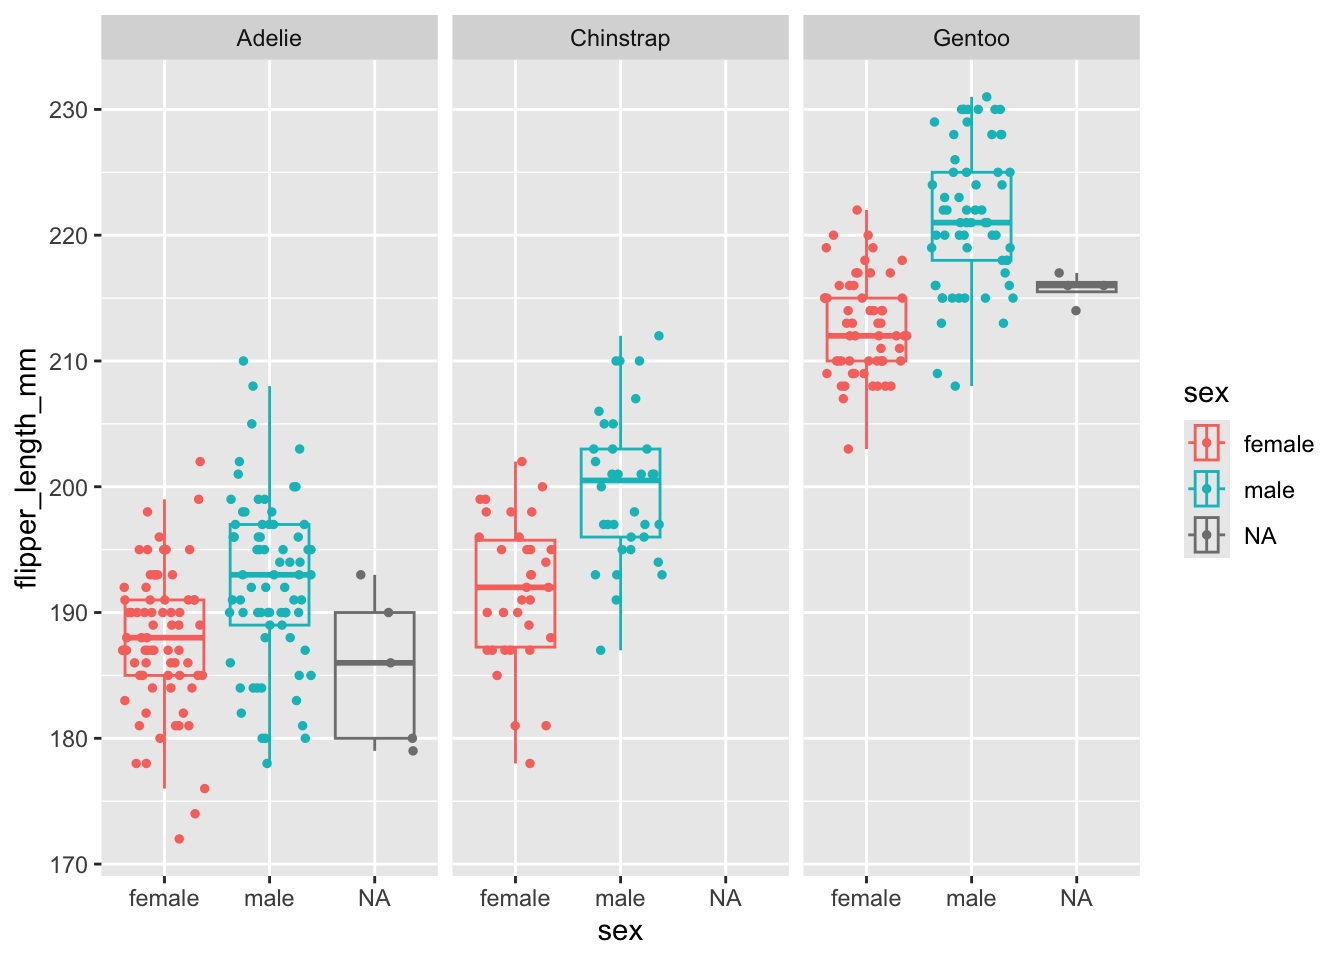
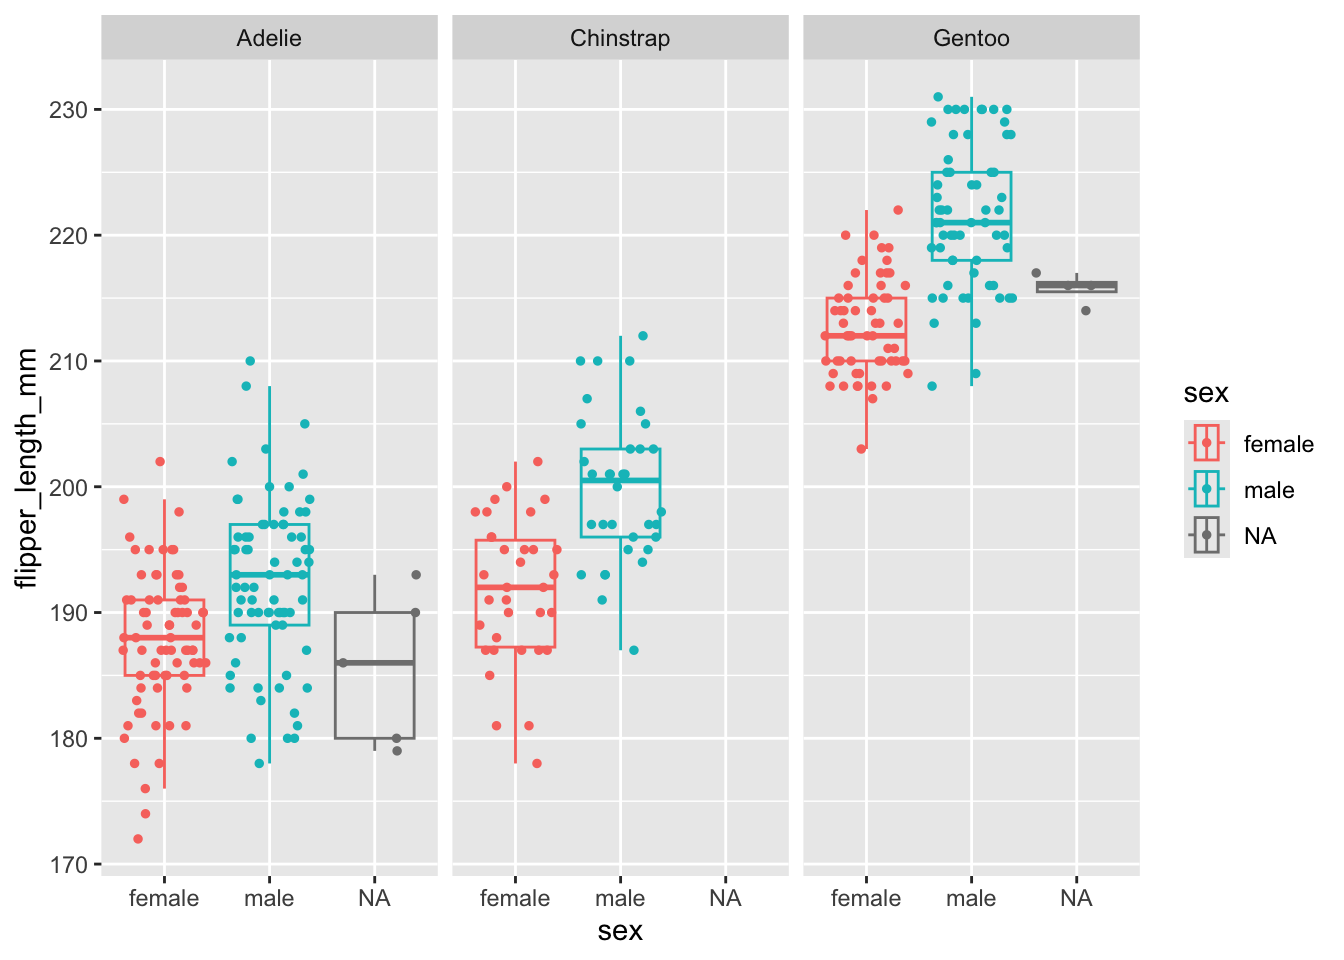
updating website

diff --git a/docs/index.html b/docs/index.html
@@ -7,7 +7,7 @@
 <meta name="viewport" content="width=device-width, initial-scale=1.0, user-scalable=yes">
 
 
-<title>Lab-3-penguins – This is a website</title>
+<title>Welcome to my website! – zhangfan lyu</title>
 <style>
 /* Default styles provided by pandoc.
 ** See https://pandoc.org/MANUAL.html#variables-for-html for config info.
@@ -86,7 +86,7 @@ ul.task-list li input[type="checkbox"] {
       <div class="navbar-container container-fluid">
       <div class="navbar-brand-container mx-auto">
     <a class="navbar-brand" href="./index.html">
-    <span class="navbar-title">This is a website</span>
+    <span class="navbar-title">zhangfan lyu</span>
     </a>
   </div>
             <div id="quarto-search" class="" title="Search"></div>
@@ -97,15 +97,19 @@ ul.task-list li input[type="checkbox"] {
             <ul class="navbar-nav navbar-nav-scroll me-auto">
   <li class="nav-item">
     <a class="nav-link active" href="./index.html" aria-current="page"> 
-<span class="menu-text">Home</span></a>
+<span class="menu-text">home</span></a>
   </li>  
   <li class="nav-item">
     <a class="nav-link" href="./about.html"> 
-<span class="menu-text">About</span></a>
+<span class="menu-text">about me</span></a>
   </li>  
   <li class="nav-item">
-    <a class="nav-link" href="./Academic Experience.html"> 
-<span class="menu-text">Academic Experience</span></a>
+    <a class="nav-link" href="./education.html"> 
+<span class="menu-text">education</span></a>
+  </li>  
+  <li class="nav-item">
+    <a class="nav-link" href="./projects.html"> 
+<span class="menu-text">projects</span></a>
   </li>  
 </ul>
           </div> <!-- /navcollapse -->
@@ -126,7 +130,7 @@ ul.task-list li input[type="checkbox"] {
 
 <header id="title-block-header" class="quarto-title-block default">
 <div class="quarto-title">
-<h1 class="title">Lab-3-penguins</h1>
+<h1 class="title">Welcome to my website!</h1>
 </div>
 
 

diff --git a/docs/about.html b/docs/about.html
@@ -7,7 +7,7 @@
 <meta name="viewport" content="width=device-width, initial-scale=1.0, user-scalable=yes">
 
 
-<title>About – This is a website</title>
+<title>about me – zhangfan lyu</title>
 <style>
 /* Default styles provided by pandoc.
 ** See https://pandoc.org/MANUAL.html#variables-for-html for config info.
@@ -86,7 +86,7 @@ ul.task-list li input[type="checkbox"] {
       <div class="navbar-container container-fluid">
       <div class="navbar-brand-container mx-auto">
     <a class="navbar-brand" href="./index.html">
-    <span class="navbar-title">This is a website</span>
+    <span class="navbar-title">zhangfan lyu</span>
     </a>
   </div>
             <div id="quarto-search" class="" title="Search"></div>
@@ -97,15 +97,19 @@ ul.task-list li input[type="checkbox"] {
             <ul class="navbar-nav navbar-nav-scroll me-auto">
   <li class="nav-item">
     <a class="nav-link" href="./index.html"> 
-<span class="menu-text">Home</span></a>
+<span class="menu-text">home</span></a>
   </li>  
   <li class="nav-item">
     <a class="nav-link active" href="./about.html" aria-current="page"> 
-<span class="menu-text">About</span></a>
+<span class="menu-text">about me</span></a>
   </li>  
   <li class="nav-item">
-    <a class="nav-link" href="./Academic Experience.html"> 
-<span class="menu-text">Academic Experience</span></a>
+    <a class="nav-link" href="./education.html"> 
+<span class="menu-text">education</span></a>
+  </li>  
+  <li class="nav-item">
+    <a class="nav-link" href="./projects.html"> 
+<span class="menu-text">projects</span></a>
   </li>  
 </ul>
           </div> <!-- /navcollapse -->
@@ -126,7 +130,7 @@ ul.task-list li input[type="checkbox"] {
 
 <header id="title-block-header" class="quarto-title-block default">
 <div class="quarto-title">
-<h1 class="title">About</h1>
+<h1 class="title">about me</h1>
 </div>
 
 

diff --git a/docs/Lab 3 notes.html b/docs/Lab 3 notes.html
@@ -7,7 +7,7 @@
 <meta name="viewport" content="width=device-width, initial-scale=1.0, user-scalable=yes">
 
 
-<title>Palmer’s Penguins – This is a website</title>
+<title>Palmer’s Penguins – zhangfan lyu</title>
 <style>
 /* Default styles provided by pandoc.
 ** See https://pandoc.org/MANUAL.html#variables-for-html for config info.
@@ -121,7 +121,7 @@ pre > code.sourceCode > span > a:first-child::before { text-decoration: underlin
       <div class="navbar-container container-fluid">
       <div class="navbar-brand-container mx-auto">
     <a class="navbar-brand" href="./index.html">
-    <span class="navbar-title">This is a website</span>
+    <span class="navbar-title">zhangfan lyu</span>
     </a>
   </div>
             <div id="quarto-search" class="" title="Search"></div>
@@ -132,15 +132,19 @@ pre > code.sourceCode > span > a:first-child::before { text-decoration: underlin
             <ul class="navbar-nav navbar-nav-scroll me-auto">
   <li class="nav-item">
     <a class="nav-link" href="./index.html"> 
-<span class="menu-text">Home</span></a>
+<span class="menu-text">home</span></a>
   </li>  
   <li class="nav-item">
     <a class="nav-link" href="./about.html"> 
-<span class="menu-text">About</span></a>
+<span class="menu-text">about me</span></a>
   </li>  
   <li class="nav-item">
-    <a class="nav-link" href="./Academic Experience.html"> 
-<span class="menu-text">Academic Experience</span></a>
+    <a class="nav-link" href="./education.html"> 
+<span class="menu-text">education</span></a>
+  </li>  
+  <li class="nav-item">
+    <a class="nav-link" href="./projects.html"> 
+<span class="menu-text">projects</span></a>
   </li>  
 </ul>
           </div> <!-- /navcollapse -->

diff --git a/docs/projects.html b/docs/projects.html
@@ -7,7 +7,7 @@
 <meta name="viewport" content="width=device-width, initial-scale=1.0, user-scalable=yes">
 
 
-<title>education – zhangfan lyu</title>
+<title>projects – zhangfan lyu</title>
 <style>
 /* Default styles provided by pandoc.
 ** See https://pandoc.org/MANUAL.html#variables-for-html for config info.
@@ -108,7 +108,7 @@ ul.task-list li input[type="checkbox"] {
 <span class="menu-text">education</span></a>
   </li>  
   <li class="nav-item">
-    <a class="nav-link" href="./projects.html"> 
+    <a class="nav-link active" href="./projects.html" aria-current="page"> 
 <span class="menu-text">projects</span></a>
   </li>  
 </ul>
@@ -130,7 +130,7 @@ ul.task-list li input[type="checkbox"] {
 
 <header id="title-block-header" class="quarto-title-block default">
 <div class="quarto-title">
-<h1 class="title">education</h1>
+<h1 class="title">projects</h1>
 </div>
 
 
@@ -147,8 +147,6 @@ ul.task-list li input[type="checkbox"] {
 </header>
 
 
-<p><img src="https://thumb.wikimedia.org/wikipedia/commons/thumb/7/76/Mcgill_university_coa.png/250px-Mcgill_university_coa.png?utm_source=en.wikipedia.org&amp;utm_campaign=parser&amp;utm_content=thumbnail" class="img-fluid"></p>
-<p><img src="https://thumb.wikimedia.org/wikipedia/commons/thumb/4/47/Cornell_University_seal.svg/250px-Cornell_University_seal.svg.png?utm_source=en.wikipedia.org&amp;utm_campaign=parser&amp;utm_content=thumbnail" class="img-fluid"></p>
 
 
 

diff --git a/docs/about me.html b/docs/about me.html
@@ -7,7 +7,7 @@
 <meta name="viewport" content="width=device-width, initial-scale=1.0, user-scalable=yes">
 
 
-<title>education – zhangfan lyu</title>
+<title>about me – zhangfan lyu</title>
 <style>
 /* Default styles provided by pandoc.
 ** See https://pandoc.org/MANUAL.html#variables-for-html for config info.
@@ -130,7 +130,7 @@ ul.task-list li input[type="checkbox"] {
 
 <header id="title-block-header" class="quarto-title-block default">
 <div class="quarto-title">
-<h1 class="title">education</h1>
+<h1 class="title">about me</h1>
 </div>
 
 
@@ -147,8 +147,7 @@ ul.task-list li input[type="checkbox"] {
 </header>
 
 
-<p><img src="https://thumb.wikimedia.org/wikipedia/commons/thumb/7/76/Mcgill_university_coa.png/250px-Mcgill_university_coa.png?utm_source=en.wikipedia.org&amp;utm_campaign=parser&amp;utm_content=thumbnail" class="img-fluid"></p>
-<p><img src="https://thumb.wikimedia.org/wikipedia/commons/thumb/4/47/Cornell_University_seal.svg/250px-Cornell_University_seal.svg.png?utm_source=en.wikipedia.org&amp;utm_campaign=parser&amp;utm_content=thumbnail" class="img-fluid"></p>
+<p>About this site</p>
 
 
 

diff --git a/docs/education.html b/docs/education.html
@@ -104,7 +104,7 @@ ul.task-list li input[type="checkbox"] {
 <span class="menu-text">about me</span></a>
   </li>  
   <li class="nav-item">
-    <a class="nav-link" href="./education.html"> 
+    <a class="nav-link active" href="./education.html" aria-current="page"> 
 <span class="menu-text">education</span></a>
   </li>  
   <li class="nav-item">
